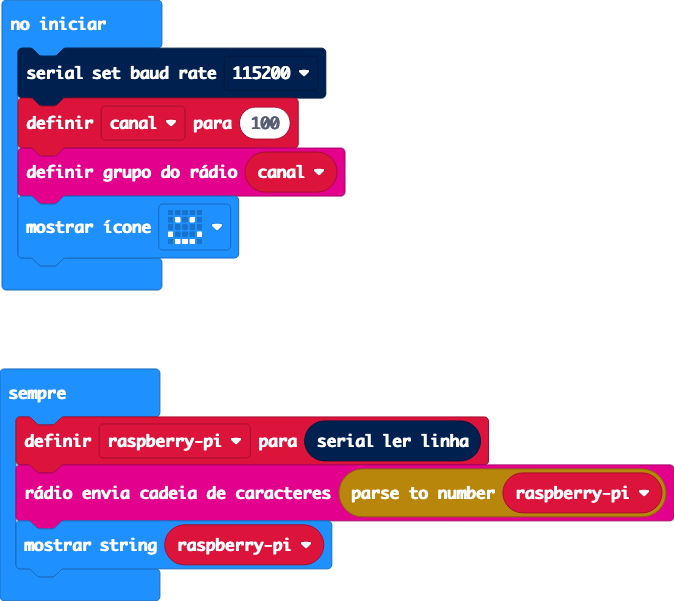
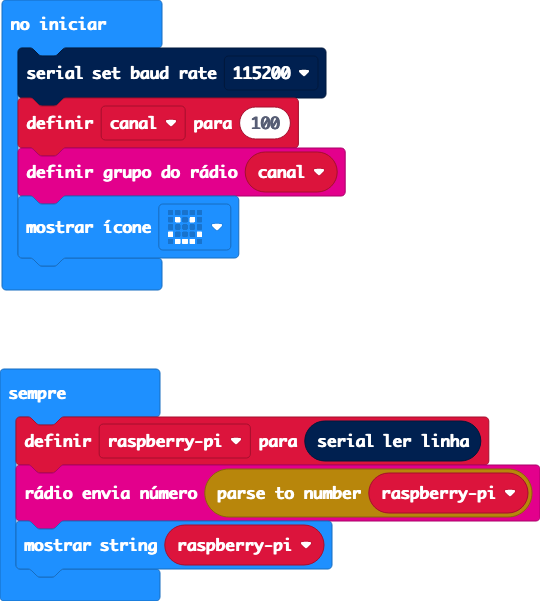
Corrigir envio de mensagem: somente inteiro

Changed region(s): [[0.0, 0.0, 0.6519, 0.5092], [0.0, 0.599, 1.0, 1.0]]

diff --git a/main.ts b/main.ts
@@ -5,6 +5,6 @@ radio.setGroup(canal)
 basic.showIcon(IconNames.Happy)
 basic.forever(function () {
     raspberrypi = serial.readLine()
-    radio.sendString("" + (parseFloat(raspberrypi)))
+    radio.sendNumber(parseFloat(raspberrypi))
     basic.showString(raspberrypi)
 })
